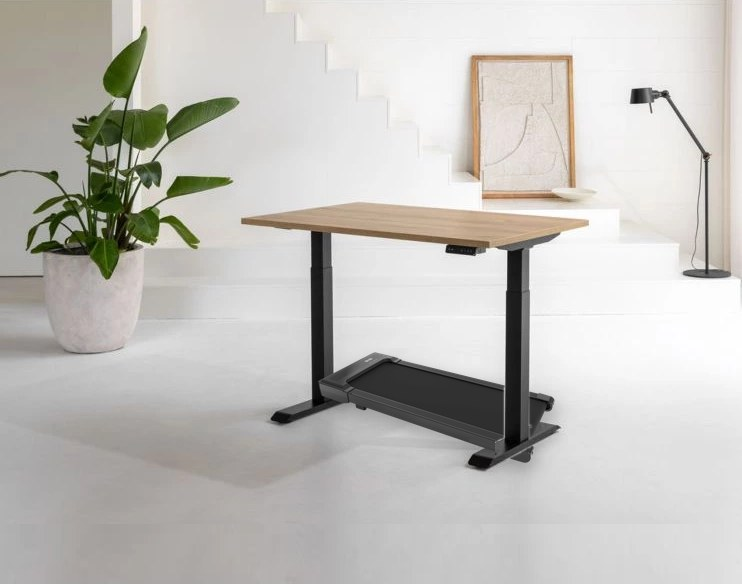
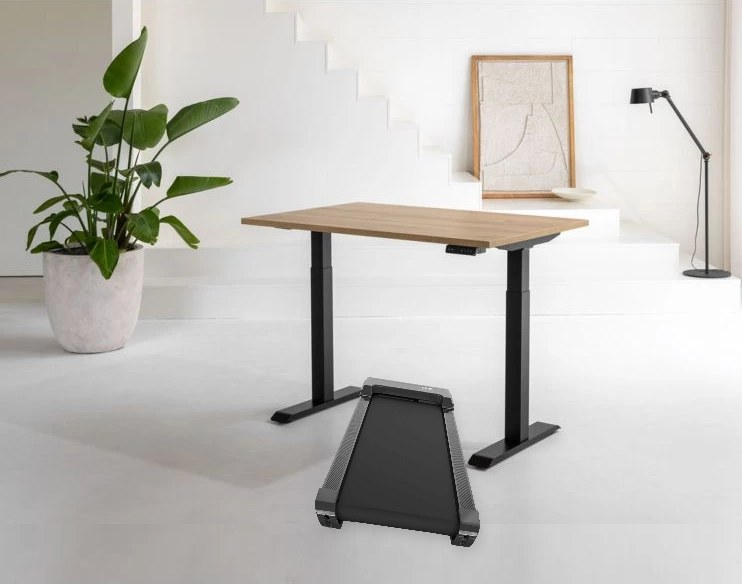
Bureau actif: show treadmill in walking orientation in hero image
Console end under the desk, belt toward the viewer, as it would be used.

Claude-Session: https://claude.ai/code/session_01T23BmVwE7jVcfghoTFQZB2

Changed region(s): [[0.403, 0.5856, 0.6819, 0.9555], [0.7129, 0.6473, 0.7439, 0.7397], [0.6819, 0.7705, 0.7439, 0.8014]]

diff --git a/bureau-actif/index.html b/bureau-actif/index.html
@@ -322,7 +322,7 @@ footer a{margin-right:18px;display:inline-block}footer .wrap > span{max-width:10
     </div>
     <div class="hero__visual">
       <div class="photo-hero">
-        <img src="img/scene-bureau-tapis.jpg" alt="Bureau assis-debout électrique avec le tapis de marche rangé dessous, dans un intérieur lumineux" width="742" height="584">
+        <img src="img/scene-bureau-tapis.jpg" alt="Bureau assis-debout électrique avec le tapis de marche installé dessous dans le sens de la marche, dans un intérieur lumineux" width="742" height="584">
         <span class="photo-hero__light" aria-hidden="true"></span>
         <div class="scene__badge scene__badge--a">👟<div><b data-steps>4 180</b><small>pas aujourd'hui</small></div></div>
         <div class="scene__badge scene__badge--b"><i class="live"></i><div><b>En marche</b><small>3,0 km/h · 57 dB max.</small></div></div>
